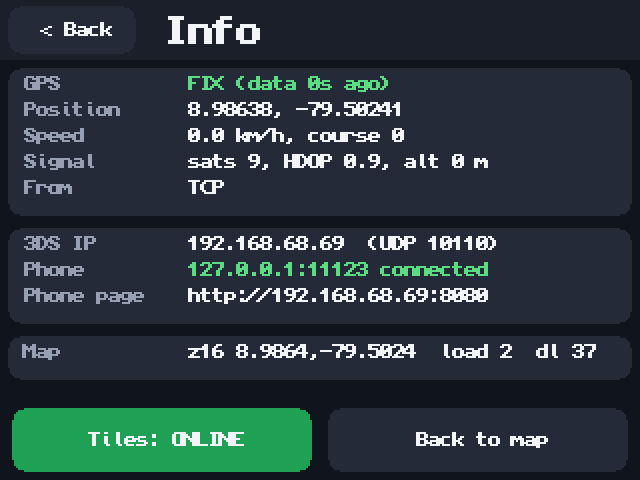
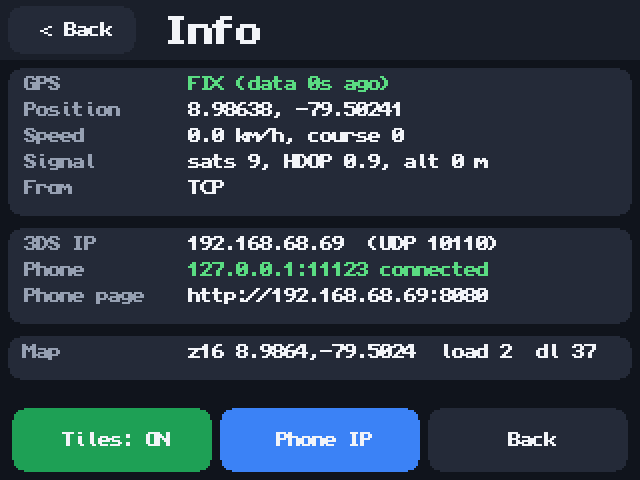
Find the phone more reliably; set its IP from the app
- Use the 3DS's real default gateway, not just .1 of the subnet
- Re-detect when Wi-Fi connects or changes after the app starts
- Info > Phone IP: type the phone's IP (or auto/off); saved to config.ini
- Version 1.0.1

Claude-Session: https://claude.ai/code/session_01H4xamkdgFECi8j7AMNKH52

Changed region(s): [[0.0938, 0.8438, 0.875, 1.0]]

diff --git a/source/gps_net.c b/source/gps_net.c
@@ -14,7 +14,11 @@
 static int udp_fd = -1;
 static int tcp_fd = -1;
 static struct sockaddr_in tcp_addr;
-static struct sockaddr_in cand[4];   /* phone addresses to try, in turn */
+static struct sockaddr_in cand[8];   /* phone addresses to try, in turn */
+static char cur_phone_ip[64];
+static int cur_tcp_port;
+static uint32_t cur_ip;              /* 3DS IP the candidates were built for */
+static uint64_t ip_check_at;
 static int n_cand, cand_idx;
 
 static void use_candidate(GpsNet *g)
@@ -38,6 +42,87 @@ static void set_nonblock(int fd)
 	fcntl(fd, F_SETFL, fcntl(fd, F_GETFL, 0) | O_NONBLOCK);
 }
 
+/* The default gateway from the 3DS routing table (0 if none yet). */
+static uint32_t default_gateway(void)
+{
+	static SOCU_RoutingTableEntry rt[16];
+	socklen_t len = sizeof(rt);
+	if (SOCU_GetNetworkOpt(SOL_CONFIG, NETOPT_ROUTING_TABLE, rt, &len) != 0) return 0;
+	int n = len / sizeof(rt[0]);
+	for (int i = 0; i < n && i < 16; i++)
+		if ((rt[i].flags & ROUTING_FLAG_G) && rt[i].dest_ip.s_addr == 0 && rt[i].gateway.s_addr)
+			return rt[i].gateway.s_addr;
+	for (int i = 0; i < n && i < 16; i++)
+		if ((rt[i].flags & ROUTING_FLAG_G) && rt[i].gateway.s_addr)
+			return rt[i].gateway.s_addr;
+	return 0;
+}
+
+static void add_cand(uint32_t host, int port)
+{
+	if (!host || n_cand >= (int)(sizeof(cand) / sizeof(cand[0]))) return;
+	for (int i = 0; i < n_cand; i++)
+		if (cand[i].sin_addr.s_addr == host && ntohs(cand[i].sin_port) == port) return;
+	struct sockaddr_in *c = &cand[n_cand++];
+	memset(c, 0, sizeof(*c));
+	c->sin_family = AF_INET;
+	c->sin_port = htons(port);
+	c->sin_addr.s_addr = host;
+}
+
+/* (Re)build the list of phone addresses the TCP client tries, in turn. */
+static void setup_tcp(GpsNet *g, const char *phone_ip, int tcp_port)
+{
+	snprintf(cur_phone_ip, sizeof(cur_phone_ip), "%s", phone_ip);
+	cur_tcp_port = tcp_port;
+	if (tcp_fd >= 0) close(tcp_fd);
+	tcp_fd = -1;
+	nmea_stream_init(&tcp_stream);
+
+	struct in_addr ip = {0}, mask = {0}, bcast = {0};
+	SOCU_GetIPInfo(&ip, &mask, &bcast);
+	cur_ip = ip.s_addr;
+	snprintf(g->my_ip, sizeof(g->my_ip), "%s", ip.s_addr ? inet_ntoa(ip) : "not connected");
+
+	tcp_enabled = false;
+	g->tcp_state = TCP_OFF;
+	n_cand = 0;
+	if (!phone_ip[0] || strcmp(phone_ip, "off") == 0) return;
+
+	bool aut = strcmp(phone_ip, "auto") == 0;
+	uint32_t hosts[3];
+	int nh = 0;
+	if (aut) {
+		/* On a phone hotspot the phone is the gateway: ask the 3DS for it,
+		 * and also try .1 of our subnet. 127.0.0.1 covers an emulator
+		 * running on the phone itself. */
+		uint32_t gw = default_gateway();
+		if (gw) hosts[nh++] = gw;
+		if (ip.s_addr) hosts[nh++] = (ip.s_addr & mask.s_addr) | htonl(1);
+		hosts[nh++] = htonl(0x7F000001);
+	} else {
+		struct in_addr a;
+		if (inet_aton(phone_ip, &a)) hosts[nh++] = a.s_addr;
+	}
+	/* the configured port, plus Share GPS's default (50000) */
+	int ports[2] = { tcp_port, 50000 };
+	int np = tcp_port != 50000 ? 2 : 1;
+	for (int hi = 0; hi < nh; hi++)
+		for (int pi = 0; pi < np; pi++) add_cand(hosts[hi], ports[pi]);
+	if (n_cand > 0) {
+		tcp_enabled = true;
+		g->tcp_state = TCP_WAITING;
+		cand_idx = 0;
+		use_candidate(g);
+	}
+	tcp_retry_at = 0;
+}
+
+void gps_net_set_phone(GpsNet *g, const char *phone_ip)
+{
+	setup_tcp(g, phone_ip, cur_tcp_port);
+}
+
 void gps_net_init(GpsNet *g, const Config *cfg)
 {
 	memset(g, 0, sizeof(*g));
@@ -46,9 +131,6 @@ void gps_net_init(GpsNet *g, const Config *cfg)
 	nmea_stream_init(&tcp_stream);
 	strcpy(g->source, "-");
 
-	struct in_addr ip = {0}, mask = {0}, bcast = {0};
-	SOCU_GetIPInfo(&ip, &mask, &bcast);
-	snprintf(g->my_ip, sizeof(g->my_ip), "%s", inet_ntoa(ip));
 
 	/* UDP listener: phone apps / scripts push NMEA to <3DS ip or broadcast>:udp_port */
 	udp_fd = socket(AF_INET, SOCK_DGRAM, 0);
@@ -84,41 +166,7 @@ void gps_net_init(GpsNet *g, const Config *cfg)
 		}
 	}
 
-	/* TCP client: the 3DS connects to an NMEA server running on the phone */
-	tcp_enabled = false;
-	g->tcp_state = TCP_OFF;
-	if (cfg->phone_ip[0] && strcmp(cfg->phone_ip, "off") != 0) {
-		uint32_t hosts[2];
-		int nh = 0;
-		if (strcmp(cfg->phone_ip, "auto") == 0) {
-			/* On a phone hotspot the phone is the gateway (almost always .1).
-			 * 127.0.0.1 covers an emulator running on the phone itself. */
-			if (ip.s_addr) hosts[nh++] = (ip.s_addr & mask.s_addr) | htonl(1);
-			hosts[nh++] = htonl(0x7F000001);
-		} else {
-			struct in_addr a;
-			if (inet_aton(cfg->phone_ip, &a)) hosts[nh++] = a.s_addr;
-		}
-		/* try the configured port, plus Share GPS's default when auto-detecting */
-		int ports[2] = { cfg->tcp_port, 50000 };
-		int np = (strcmp(cfg->phone_ip, "auto") == 0 && cfg->tcp_port != 50000) ? 2 : 1;
-		n_cand = 0;
-		for (int pi = 0; pi < np; pi++)
-			for (int hi = 0; hi < nh; hi++) {
-				struct sockaddr_in *c = &cand[n_cand++];
-				memset(c, 0, sizeof(*c));
-				c->sin_family = AF_INET;
-				c->sin_port = htons(ports[pi]);
-				c->sin_addr.s_addr = hosts[hi];
-			}
-		if (n_cand > 0) {
-			tcp_enabled = true;
-			g->tcp_state = TCP_WAITING;
-			cand_idx = 0;
-			use_candidate(g);
-		}
-	}
-	tcp_retry_at = 0;
+	setup_tcp(g, cfg->phone_ip, cfg->tcp_port);
 }
 
 static void tcp_drop(GpsNet *g)
@@ -257,6 +305,15 @@ bool gps_net_poll(GpsNet *g)
 	}
 
 	if (http_poll(g)) changed = true;
+
+	/* Wi-Fi may come up (or change network) after the app starts:
+	 * rebuild the phone addresses when the 3DS IP changes. */
+	if (osGetTime() >= ip_check_at && g->tcp_state != TCP_CONNECTED) {
+		ip_check_at = osGetTime() + 3000;
+		struct in_addr ip = {0}, mask = {0}, bcast = {0};
+		SOCU_GetIPInfo(&ip, &mask, &bcast);
+		if (ip.s_addr != cur_ip) setup_tcp(g, cur_phone_ip, cur_tcp_port);
+	}
 
 	if (tcp_enabled) {
 		uint64_t now = osGetTime();

diff --git a/source/main.c b/source/main.c
@@ -387,7 +387,7 @@ typedef enum { UI_HOME, UI_RESULTS, UI_INFO } UiMode;
 
 typedef enum {
 	ACT_NONE, ACT_SEARCH, ACT_FOLLOW, ACT_ZOOM_IN, ACT_ZOOM_OUT, ACT_INFO, ACT_BACK,
-	ACT_GO, ACT_END_ROUTE, ACT_MODE_CHANGED, ACT_TOGGLE_TILES, ACT_SELECT
+	ACT_GO, ACT_END_ROUTE, ACT_MODE_CHANGED, ACT_TOGGLE_TILES, ACT_SELECT, ACT_PHONE_IP
 } Action;
 
 static Action screen_home(const GpsNet *g, bool *walking, bool follow, const char *msg)
@@ -621,9 +621,10 @@ static Action screen_info(const GpsNet *g, const Config *cfg, int z, double clat
 	info_row(y, "Map", v, C_TXT);
 	if (tiles_last_error()[0]) text_fit(10, 194, tiles_last_error(), 1, 300, C_WARN);
 
-	if (button(6, 204, 150, 32, tiles_online() ? "Tiles: ONLINE" : "Tiles: OFFLINE", 1,
+	if (button(6, 204, 100, 32, tiles_online() ? "Tiles: ON" : "Tiles: OFF", 1,
 	           tiles_online() ? C_GO : C_WARN, C_TXT)) a = ACT_TOGGLE_TILES;
-	if (button(164, 204, 150, 32, "Back to map", 1, C_CARD, C_TXT)) a = ACT_BACK;
+	if (button(110, 204, 100, 32, "Phone IP", 1, C_ACC, C_TXT)) a = ACT_PHONE_IP;
+	if (button(214, 204, 100, 32, "Back", 1, C_CARD, C_TXT)) a = ACT_BACK;
 	return a;
 }
 
@@ -642,6 +643,30 @@ static bool ask_search_text(char *out, int n, const char *last)
 	SwkbdButton b = swkbdInputText(&kb, buf, sizeof(buf));
 	if (b != SWKBD_BUTTON_RIGHT || !buf[0]) return false;
 	snprintf(out, n, "%s", buf);
+	return true;
+}
+
+/* Phone address: "auto", an IP like 192.168.43.1, or "off". */
+static bool ask_phone_ip(char *out, int n)
+{
+	SwkbdState kb;
+	swkbdInit(&kb, SWKBD_TYPE_WESTERN, 2, n - 1);
+	swkbdSetHintText(&kb, "Phone IP, or auto");
+	swkbdSetButton(&kb, SWKBD_BUTTON_LEFT, "Cancel", false);
+	swkbdSetButton(&kb, SWKBD_BUTTON_RIGHT, "OK", true);
+	swkbdSetValidation(&kb, SWKBD_NOTEMPTY_NOTBLANK, 0, 0);
+	swkbdSetInitialText(&kb, out);
+	char buf[64] = {0};
+	if (swkbdInputText(&kb, buf, sizeof(buf)) != SWKBD_BUTTON_RIGHT) return false;
+	char *s = buf;
+	while (*s == ' ') s++;
+	char *e = s + strlen(s);
+	while (e > s && e[-1] == ' ') *--e = 0;
+	for (char *c = s; *c; c++) if (*c >= 'A' && *c <= 'Z') *c += 32;
+	if (!*s) return false;
+	struct in_addr a;
+	if (strcmp(s, "auto") && strcmp(s, "off") && !inet_aton(s, &a)) return false;
+	snprintf(out, n, "%s", s);
 	return true;
 }
 
@@ -799,6 +824,13 @@ int main(void)
 		case ACT_INFO: ui = UI_INFO; break;
 		case ACT_FOLLOW: follow = true; break;
 		case ACT_TOGGLE_TILES: tiles_set_online(!tiles_online()); break;
+		case ACT_PHONE_IP:
+			if (ask_phone_ip(cfg.phone_ip, sizeof(cfg.phone_ip))) {
+				gps_net_set_phone(&gps, cfg.phone_ip);
+				config_save(&cfg, APP_DIR "/config.ini");
+				SAY("Phone: %s", cfg.phone_ip);
+			}
+			break;
 		case ACT_END_ROUTE:
 			if (have_route) { route_free(&route); have_route = false; msg[0] = 0; }
 			break;

diff --git a/source/config.c b/source/config.c
@@ -22,7 +22,7 @@ void config_defaults(Config *c)
 	c->start_lon = -3.7038;
 }
 
-static void write_defaults(const Config *c, const char *path)
+void config_save(const Config *c, const char *path)
 {
 	FILE *f = fopen(path, "w");
 	if (!f) return;
@@ -36,7 +36,8 @@ static void write_defaults(const Config *c, const char *path)
 		"udp_port=%d\n"
 		"\n"
 		"# Phone IP for TCP mode (the 3DS connects to an NMEA server on the phone,\n"
-		"# e.g. GPS2IP on iPhone). 'auto' = the hotspot gateway, 'off' = disabled.\n"
+		"# e.g. Share GPS or GPS2IP). 'auto' = find it on the hotspot, 'off' = disabled.\n"
+		"# You can also change it in the app: Info > Phone IP.\n"
 		"phone_ip=%s\n"
 		"tcp_port=%d\n"
 		"\n"
@@ -72,7 +73,7 @@ void config_load(Config *c, const char *path)
 	mkdir(APP_DIR, 0777);
 
 	FILE *f = fopen(path, "r");
-	if (!f) { write_defaults(c, path); return; }
+	if (!f) { config_save(c, path); return; }
 
 	char line[400];
 	while (fgets(line, sizeof(line), f)) {

diff --git a/source/gps_net.h b/source/gps_net.h
@@ -20,4 +20,6 @@ typedef struct {
 void gps_net_init(GpsNet *g, const Config *cfg);
 /* Non-blocking; call once per frame. Returns true if the fix changed. */
 bool gps_net_poll(GpsNet *g);
+/* Change the phone address ("auto", an IP, or "off") and reconnect. */
+void gps_net_set_phone(GpsNet *g, const char *phone_ip);
 void gps_net_exit(GpsNet *g);

diff --git a/source/config.h b/source/config.h
@@ -17,6 +17,7 @@ typedef struct {
 
 void config_defaults(Config *c);
 void config_load(Config *c, const char *path);   /* creates the file with defaults if missing */
+void config_save(const Config *c, const char *path);
 
 /* Last viewed position, so the map opens where you left it. */
 bool state_load(double *lat, double *lon, int *zoom);
